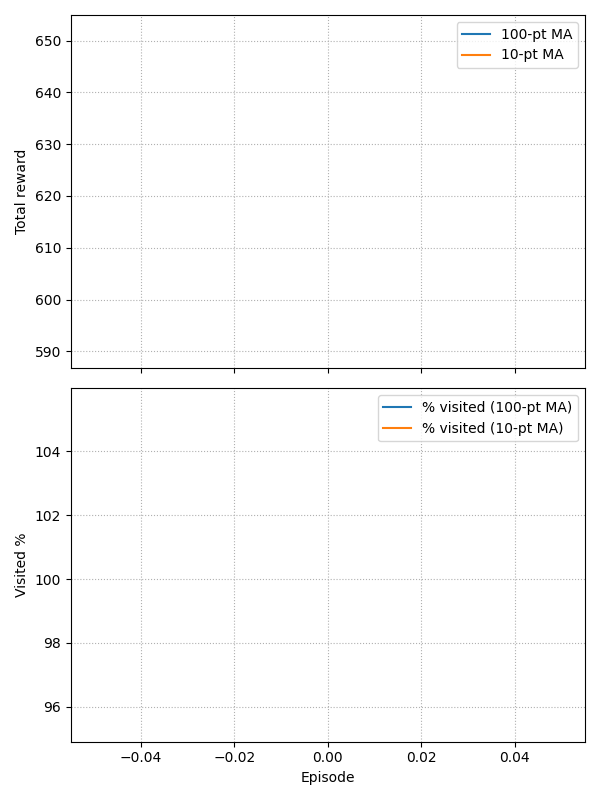
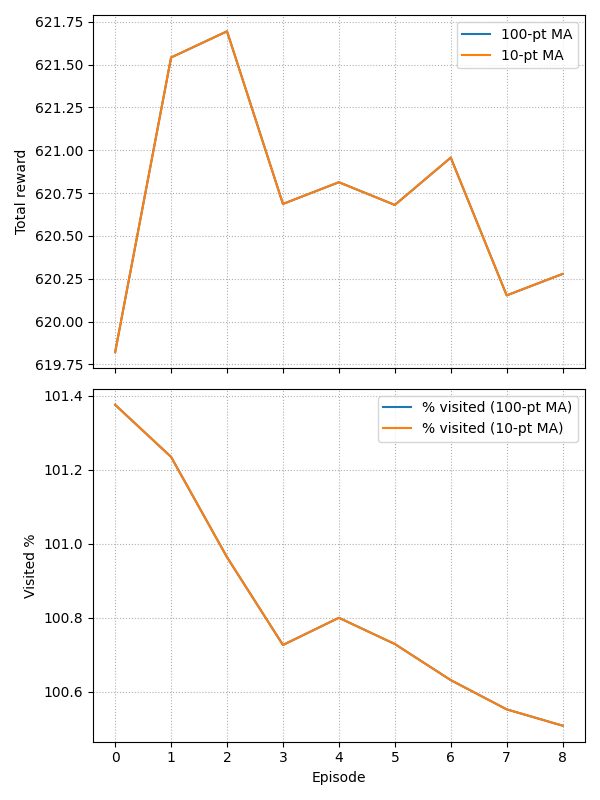
removed debug output

diff --git a/main.py b/main.py
@@ -121,7 +121,7 @@ while roundNum < 10000:
         m.move_direction(agent.act(m.getGrid3D()))
         afterLen = m.grid[:,:,2].sum()
 
-        if roundNum % 1 == 0:
+        if roundNum % 10 == 0:
             m.displayBase()
         if afterLen >= (mapsize*currGoal):
             goalCount.append(1)

diff --git a/DataReader.py b/DataReader.py
@@ -116,7 +116,6 @@ def svg_to_binary_grid(svg_file, grid_size=(300,300)):
 def colorGridTo3dGrid(color_grid):
     # Convert the color grid to a 3D grid
     uniqueColors = np.unique(color_grid.reshape(-1, color_grid.shape[2]), axis=0)
-    print(uniqueColors)
     color_to_index = {tuple(color): idx for idx, color in enumerate(uniqueColors)}
     grid = np.zeros((color_grid.shape[0], color_grid.shape[1], len(uniqueColors)), dtype=np.uint8)
     for i in range(color_grid.shape[0]):